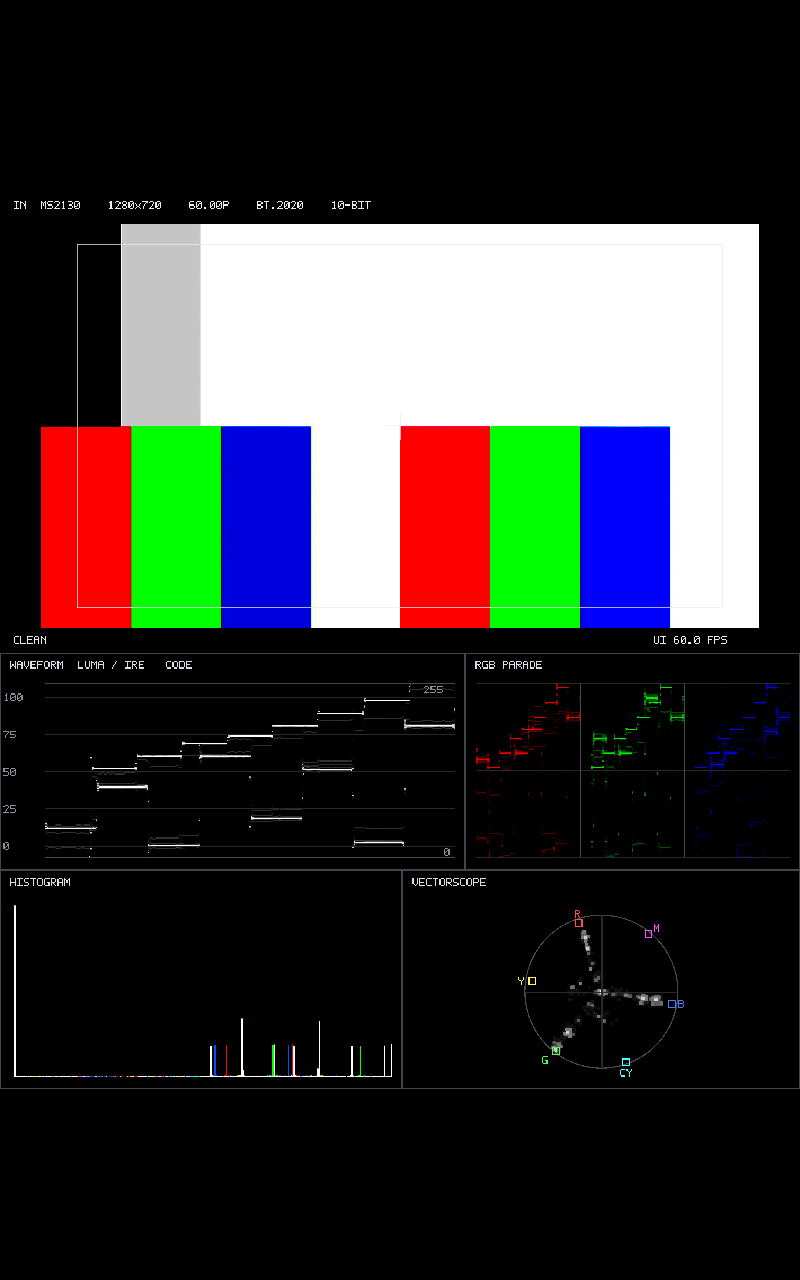
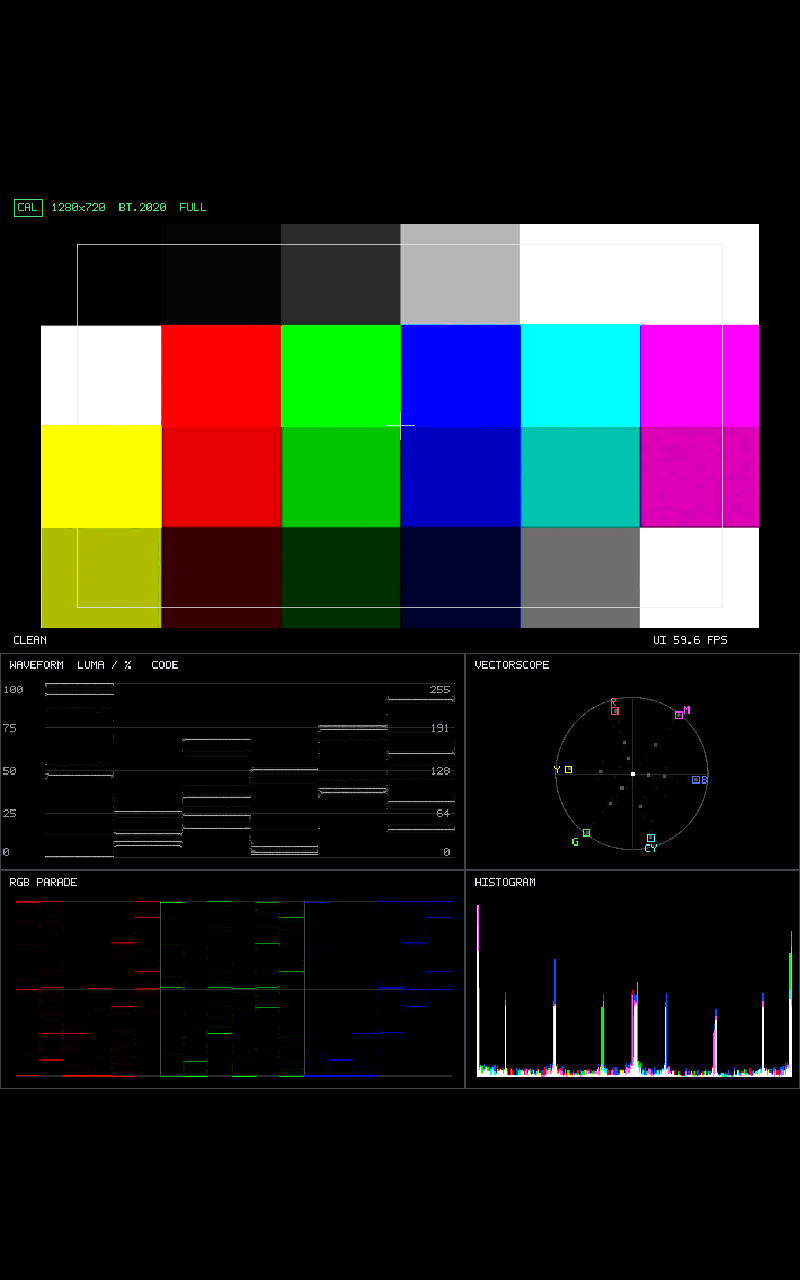
ドキュメント更新
- WaveformのFull Rangeグリッド
- Waveform／Parade／Vectorscopeの平方根密度表示
- Waveformの720サンプル基準
- Histogramのチャンネル別表示と0／255クリッピング強調
- Vectorscopeの動的色度係数とscale 117
- 新しいスコープ配置と描画順
- CAL badgeとProfileパラメータ表示
- 通知のLOAD／UNLOAD
- 画面内Importボタンと下部詳細表示の廃止
- UVCFM_ENABLE_DIAGNOSTICSの使用方法とOFF対象
- A202ZT向けEGL時間計測が診断ビルド限定であること
- Architecture文書の日付を2026-09-30へ更新

diff --git a/README_en.md b/README_en.md
@@ -33,6 +33,7 @@ Key design goals:
 - TurboJPEG planar YCbCr 4:2:2 decoding
 - GPU-assisted real-time video analysis
 - SDR / HDR(PQ) preview
+- Capture Calibration Profile Format v1 import and application
 - On-device latency measurement and optimization
 
 The legacy 720×480 YUYV fallback has been removed from the current baseline. MS2109 / MS2130-class devices now share the same 720p60 MJPEG decode/render path.
@@ -79,7 +80,7 @@ BT.2020 → BT.709
 sRGB
 ```
 
-The scope path does not apply PQ EOTF or tone mapping. It keeps decoded source-domain code values.
+The scope path does not apply PQ EOTF or tone mapping. It keeps decoded code-domain values, or calibration-corrected code-domain values when a profile is active.
 
 ### Video scopes
 
@@ -91,6 +92,26 @@ Currently implemented:
 - Vectorscope
 
 The scopes are intended for field exposure checks, signal-level checks, and color-distribution monitoring directly on an Android device.
+
+- The waveform uses a fixed full-range scale: `0 / 25 / 50 / 75 / 100 %` and `code 0 / 64 / 128 / 191 / 255`.
+- Waveform, RGB Parade, and Vectorscope use square-root density rendering. The waveform reference population is 720 source rows.
+- The per-channel square-root histogram emphasizes clipping bins at code 0 and 255.
+- Vectorscope targets remain at 100%, while BT.601 / BT.709 / BT.2020 chroma coefficients follow the loaded profile.
+- Graticules are drawn before measured traces so signals remain visible at intersections.
+
+---
+
+## Capture Calibration Profile
+
+The monitor imports Profile Format v1 JSON generated by the companion calibration application and applies device PU values plus RGB offset/matrix correction.
+
+Use `LOAD` in the persistent Android notification to select a profile. A valid profile is saved internally and restored on the next launch. `UNLOAD` deletes the saved profile, disables correction, and reopens the active USB session when necessary. There is no in-app import button.
+
+With no profile loaded, the on-screen CAL badge is gray. A valid loaded profile changes it to a green `CAL` badge and displays the profile resolution, colorimetry, and FULL / LIMITED range. Detailed validation failures are written to Logcat instead of a lower-screen status panel.
+
+Matching validates profile version, VID/PID, optional serial, MJPEG 1280×720 at 60 fps, input encoding, range, colorimetry, transfer characteristics, and validation result. No interpolation or partial matching is performed.
+
+PQ EOTF and tone mapping remain preview-only. Scopes operate on corrected code-domain values.
 
 ---
 
@@ -108,16 +129,21 @@ flowchart LR
     H[Latest Decoded Frame]
     I[Persistent PBO]
     J[3-plane GL_R8]
-    K[Preview]
-    L[GPU Scopes]
-    M[Android Display]
+    K{Profile Match}
+    L[PU + Offset + 3x3 Matrix]
+    M[Preview]
+    N[GPU Scopes]
+    O[Android Display]
+    P[Calibration Profile JSON]
 
     A --> B
     B --> C --> E
     B --> D --> E
     E --> F --> G --> H --> I --> J
-    J --> K --> M
-    J --> L --> M
+    P --> K
+    K --> L
+    J --> L --> M --> O
+    L --> N --> O
 ```
 
 Only the USB transport is separated. UVC MJPEG parsing, decoding, rendering, and scope processing are shared after the transport layer.
@@ -146,15 +172,13 @@ Frames that fail JPEG decoding are not published to the renderer, so the previou
 
 ## Diagnostics / logging
 
-Normal builds keep Logcat output relatively quiet and retain mainly:
+Native diagnostics are controlled by the CMake option `UVCFM_ENABLE_DIAGNOSTICS`, which defaults to `OFF`.
 
 ```text
-USB transport statistics
-TurboJPEG statistics
-warning / error
+-DUVCFM_ENABLE_DIAGNOSTICS=ON
 ```
 
-Per-frame latency, detailed presentation timing, scope-queue logs, and Colorbar / Range diagnostics are disabled by default.
+When disabled, the application does not enable or query EGL frame timestamps and does not run presentation timing, periodic USB/TurboJPEG statistics, scope SSBO readback validation, or Colorbar/Range analysis. Required UVC PROBE/COMMIT operations, runtime fallbacks, and operational error reporting remain active.
 
 ---
 
@@ -362,6 +386,8 @@ UvcFieldMonitor/
 ├─ app/
 │  └─ src/main/
 │     └─ cpp/
+│        ├─ calibration_profile.cpp
+│        ├─ diagnostic_config.h
 │        ├─ uvc_device.cpp
 │        ├─ uvc_stream.cpp
 │        ├─ uvc_mjpeg_decoder.cpp
